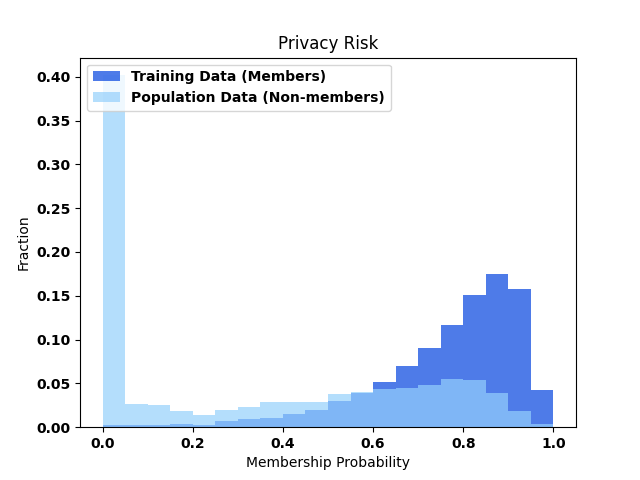
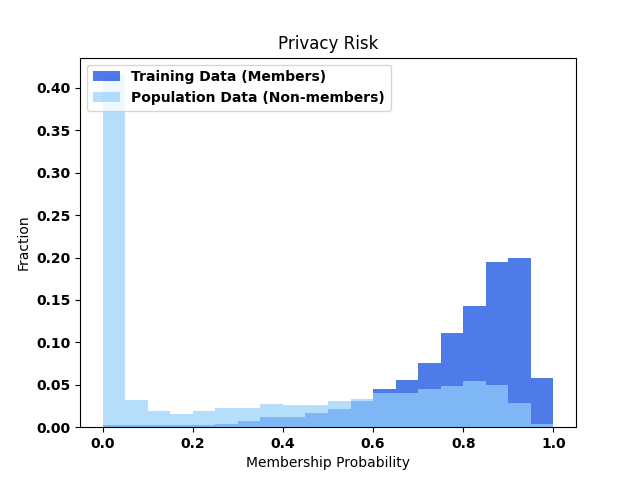
results

diff --git a/fltk/synthpriv/attack.py b/fltk/synthpriv/attack.py
@@ -62,6 +62,7 @@ def nasr(trainset_member, testset_member, trainset_nonmember, testset_nonmember,
     classifier_optimizers = [optim.Adam(target_model.parameters(), lr=0.001, weight_decay=0.0005)]
 
     print("Training attack classifier...")
+    t = time()
     best_acc, best_state = 0, None
     with tqdm(range(epochs)) as pbar:
         for epoch in pbar:
@@ -240,6 +241,8 @@ def mirage(
         nproc=8 if not "whitebox" in features else 4,
     )
 
+    if not "whitebox" in features:
+        save_path = "_".join(save_path.split("_")[:-1])  # remove model from save_path, non-whitebox is model-agnostic
     for key in list(results.keys()):
         plot_roc(results[key]["TestLabels"], results[key]["Predictions"], save_path.split("/")[-1] + "_" + key)
         plot_hist(results[key]["TestLabels"], results[key]["Predictions"], save_path.split("/")[-1] + "_" + key)
@@ -316,8 +319,8 @@ if __name__ == "__main__":
 
     trainset = dataset.train_dataset
     testset = dataset.test_dataset
-    trainsize = min(len(trainset), 25000)
-    testsize = min(len(testset), 10000)
+    trainsize = min(len(trainset), 25000 if not args.dataset == "cifar" else 15000)
+    testsize = min(len(testset), 10000 if not args.dataset == "cifar" else 6000)
     print(f"Train set size: {trainsize}, Test set size: {testsize}")
 
     trainset_member, testset_member, trainset_nonmember, testset_nonmember = [], [], [], []
@@ -356,92 +359,89 @@ if __name__ == "__main__":
             args.feature,
         )
     else:
-        if not os.path.exists("cache"):
-            print("Preparing data...")
-            t = time()
-            train_member = next(iter(DataLoader(trainset_member, batch_size=len(trainset_member))))[0].numpy()
-            test_member = next(iter(DataLoader(testset_member, batch_size=len(testset_member))))[0].numpy()
-            train_nonmember = next(iter(DataLoader(trainset_nonmember, batch_size=len(trainset_nonmember))))[0].numpy()
-            test_nonmember = next(iter(DataLoader(testset_nonmember, batch_size=len(testset_nonmember))))[0].numpy()
-            train_lbls_member = next(iter(DataLoader(trainset_member, batch_size=len(trainset_member))))[1].numpy()
-            test_lbls_member = next(iter(DataLoader(testset_member, batch_size=len(testset_member))))[1].numpy()
-            train_lbls_nonmember = next(iter(DataLoader(trainset_nonmember, batch_size=len(trainset_nonmember))))[
-                1
-            ].numpy()
-            test_lbls_nonmember = next(iter(DataLoader(testset_nonmember, batch_size=len(testset_nonmember))))[
-                1
-            ].numpy()
+        # cache_file = f"data/whitebox_{args.dataset}_train{trainsize}_test{testsize}_cache.pkl"
+        # if not os.path.exists(cache_file):
+        print("Preparing data...")
+        t = time()
+        train_member = (
+            next(iter(DataLoader(trainset_member, batch_size=len(trainset_member))))[0]
+            .numpy()
+            .reshape(len(trainset_member), -1)
+        )
+        test_member = (
+            next(iter(DataLoader(testset_member, batch_size=len(testset_member))))[0]
+            .numpy()
+            .reshape(len(testset_member), -1)
+        )
+        train_nonmember = (
+            next(iter(DataLoader(trainset_nonmember, batch_size=len(trainset_nonmember))))[0]
+            .numpy()
+            .reshape(len(trainset_nonmember), -1)
+        )
+        test_nonmember = (
+            next(iter(DataLoader(testset_nonmember, batch_size=len(testset_nonmember))))[0]
+            .numpy()
+            .reshape(len(testset_nonmember), -1)
+        )
+        train_lbls_member = next(iter(DataLoader(trainset_member, batch_size=len(trainset_member))))[1].numpy()
+        test_lbls_member = next(iter(DataLoader(testset_member, batch_size=len(testset_member))))[1].numpy()
+        train_lbls_nonmember = next(iter(DataLoader(trainset_nonmember, batch_size=len(trainset_nonmember))))[1].numpy()
+        test_lbls_nonmember = next(iter(DataLoader(testset_nonmember, batch_size=len(testset_nonmember))))[1].numpy()
 
-            metadata = {
-                "categorical_columns": [],
-                "ordinal_columns": [],
-                "continuous_columns": list(range(train_member.shape[1])),
-                "columns": [
-                    {
-                        "name": n,
-                        "type": "continuous",
-                        "min": train_member[:, n].min(),
-                        "max": train_member[:, n].max(),
-                    }
-                    for n in range(train_member.shape[1])
-                ],
-            }
-            whitebox_processor = WhiteBoxFeatureSet(
-                metadata=metadata,
-                models=[target_model],
-                optimizers=[optim.Adam(target_model.parameters(), lr=0.001, weight_decay=0.0005)],
-                criterion=nn.CrossEntropyLoss(),
-                num_classes=num_classes,
-            )
+        whitebox_processor = WhiteBoxFeatureSet(
+            models=[target_model],
+            optimizers=[optim.Adam(target_model.parameters(), lr=0.001, weight_decay=0.0005)],
+            criterion=nn.CrossEntropyLoss(),
+            num_classes=num_classes,
+        )
 
-            train = pd.DataFrame(np.concatenate((train_member, train_nonmember)))
-            train_labels = pd.DataFrame({"labels": np.concatenate((train_lbls_member, train_lbls_nonmember))})
-            test = pd.DataFrame(np.concatenate((test_member, test_nonmember)))
-            test_labels = pd.DataFrame({"labels": np.concatenate((test_lbls_member, test_lbls_nonmember))})
-            print("Took:", time() - t, "sec")
+        train = pd.DataFrame(np.concatenate((train_member, train_nonmember)))
+        train_labels = pd.DataFrame({"labels": np.concatenate((train_lbls_member, train_lbls_nonmember))})
+        test = pd.DataFrame(np.concatenate((test_member, test_nonmember)))
+        test_labels = pd.DataFrame({"labels": np.concatenate((test_lbls_member, test_lbls_nonmember))})
+        print("Took:", time() - t, "sec")
 
-            print("Mining target model gradients...")
-            t = time()
-            whitebox_train = whitebox_processor.whitebox(pd.concat((train, train_labels), axis=1))
-            whitebox_test = whitebox_processor.whitebox(pd.concat((test, test_labels), axis=1))
-            print("Took:", time() - t, "sec")
+        print("Mining target model gradients...")
+        t = time()
+        whitebox_train = whitebox_processor.whitebox(pd.concat((train, train_labels), axis=1))
+        whitebox_test = whitebox_processor.whitebox(pd.concat((test, test_labels), axis=1))
+        print("Took:", time() - t, "sec")
 
-            train = np.concatenate((train, whitebox_train), axis=1).astype(np.float32)
-            test = np.concatenate((test, whitebox_test), axis=1).astype(np.float32)
+        train = np.concatenate((train, whitebox_train), axis=1).astype(np.float32)
+        test = np.concatenate((test, whitebox_test), axis=1).astype(np.float32)
 
-            train_member_labels = np.concatenate((np.ones(len(train_member)), np.zeros((len(train_nonmember))))).astype(
-                bool
-            )
-            test_member_labels = np.concatenate((np.ones(len(test_member)), np.zeros((len(test_nonmember))))).astype(
-                bool
-            )
+        train_member_labels = np.concatenate((np.ones(len(train_member)), np.zeros((len(train_nonmember))))).astype(
+            bool
+        )
+        test_member_labels = np.concatenate((np.ones(len(test_member)), np.zeros((len(test_nonmember))))).astype(bool)
 
-            joblib.dump((train, train_member_labels, test, test_member_labels), "cache")
-        else:
-            train, train_member_labels, test, test_member_labels = joblib.load("cache")
+        #     joblib.dump((train, train_member_labels, test, test_member_labels), cache_file)
+        # else:
+        #     train, train_member_labels, test, test_member_labels = joblib.load(cache_file)
 
         idxs = np.random.permutation(len(train))
         train, train_member_labels = train[idxs], train_member_labels[idxs]
         idxs = np.random.permutation(len(test))
         test, test_member_labels = test[idxs], test_member_labels[idxs]
 
-        print(train.shape, train_member_labels.shape)
-        print(test.shape, test_member_labels.shape)
-
         print("Training attack classifier...")
         t = time()
         attack_model = lgb.LGBMClassifier(
             objective="binary",
-            max_bin=31,
+            metric=["auc"],
+            max_bin=63,
             device="gpu",
             gpu_use_dp=False,
             is_unbalance=True,
             num_iterations=1000,
-            eval_set=[(test, test_member_labels)],
-            eval_metric=["auc", "l1", "binary_logloss"],
-            early_stopping_rounds=25,
+            learning_rate=0.05,
         )
-        attack_model.fit(train, train_member_labels)
+        attack_model.fit(
+            train,
+            train_member_labels,
+            eval_set=[(test, test_member_labels)],
+            early_stopping_rounds=50,
+        )
         print("Took:", time() - t, "sec")
 
         preds = attack_model.predict_proba(test)[:, 1]

diff --git a/fltk/synthpriv/attacks/mirage.py b/fltk/synthpriv/attacks/mirage.py
@@ -6,6 +6,7 @@ import os
 from argparse import ArgumentParser
 from multiprocessing import Pool
 from os import path
+from time import time
 
 import pandas as pd
 from fltk.synthpriv.plot import plot_hist, plot_roc
@@ -406,6 +407,8 @@ def evaluate_mia(
     nproc=multiprocessing.cpu_count(),
 ):
     # Train and test MIA per target
+    print("Training attack classifiers...")
+    t = time()
     with Pool(processes=nproc) as pool:
         tasks = [
             (
@@ -426,6 +429,7 @@ def evaluate_mia(
             resultsList.append(res)
             pbar.write("Accuracies: " + " ".join([f"{k}: {v['Accuracy']}" for k, v in res.items()]))
             pbar.update(1)
+    print("Took:", time() - t)
 
     results = {
         AM.__name__: {

diff --git a/fltk/synthpriv/attacks/feature_sets/whitebox.py b/fltk/synthpriv/attacks/feature_sets/whitebox.py
@@ -51,7 +51,14 @@ class WhiteBoxFeatureSet(FeatureSet):
             batch = torch.from_numpy(batch).cuda()
             lbls = torch.from_numpy(np.nan_to_num(lbls)).long().cuda()
 
-            outputs = [model(batch) for model in self.models]
+            outputs = [
+                model(
+                    batch
+                    if not model.__class__.__name__ in ["DenseNet", "AlexNet", "Cifar100ResNet"]
+                    else batch.reshape(len(batch), 3, 32, 32)
+                )
+                for model in self.models
+            ]
 
             labels_1hot = torch.nn.functional.one_hot(lbls, num_classes=self.num_classes).float()
 
